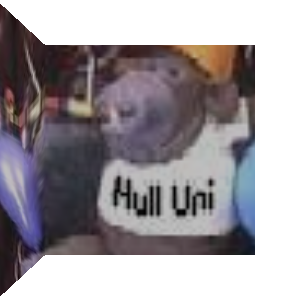
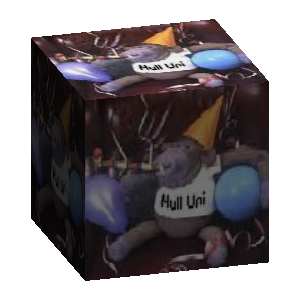
Reshape Ex 13 to map the monkey onto a proper textured 3D box
The original Ex13.java mapped the texture onto an irregular, half-finished fold
of five mismatched quads rather than a clean shape. A texture-mapping exercise is
meant to wrap a recognisable solid, so this maps the monkey onto a rotating
rectangular box (full texture per face, outward normals, slight tilt so the top
face shows). Deliberate departure from a literal port; noted in the class docs.

diff --git a/src/OpenGLExercises/Exercises/Ex13Monkey.cs b/src/OpenGLExercises/Exercises/Ex13Monkey.cs
@@ -4,15 +4,24 @@ using OpenTK.Graphics.OpenGL;
 namespace OpenGLExercises.Exercises;
 
 /// <summary>
-/// Ex 13 — texture mapping: a folded fan of quads carrying the "monkey" texture,
-/// lit and rotating about Y on a white background. Port of <c>Ex13.java</c>
-/// (whose <c>PngTextureLoader</c> is replaced by <see cref="Texture"/>).
+/// Ex 13 — texture mapping: the "monkey" texture wrapped over a lit, rotating 3D
+/// box on a white background (the <c>PngTextureLoader</c> is replaced by
+/// <see cref="Texture"/>).
 /// </summary>
+/// <remarks>
+/// The original <c>Ex13.java</c> mapped the texture onto an irregular, half-built
+/// fold of five quads (a front square plus mismatched bevel flaps) rather than a
+/// clean shape. This port instead maps it onto a proper rectangular box — the
+/// intent of a texture-mapping exercise — so the texture reads correctly on every
+/// face as it spins. This is a deliberate departure from a literal port.
+/// </remarks>
 public sealed class Ex13Monkey : ExerciseWindow
 {
+    private const float H = 0.32f; // half-extent of the box (fits the [-0.5,0.5] ortho view when spun)
+
     private int _texture;
 
-    public Ex13Monkey() : base("Ex 13 - texture mapping (monkey)") { AngleStep = 2f; }
+    public Ex13Monkey() : base("Ex 13 - texture mapping (monkey)") { AngleStep = 1.5f; }
 
     protected override void InitGL()
     {
@@ -42,54 +51,36 @@ public sealed class Ex13Monkey : ExerciseWindow
         GL.Clear(ClearBufferMask.ColorBufferBit | ClearBufferMask.DepthBufferBit);
 
         GL.PushMatrix();
-        GL.Rotate(Angle, 0f, 1f, 0f);
+        GL.Rotate(20f, 1f, 0f, 0f);   // fixed tilt so the top face is visible -> reads as 3D
+        GL.Rotate(Angle, 0f, 1f, 0f); // animated spin
+
         GL.BindTexture(TextureTarget.Texture2D, _texture);
         GL.Enable(EnableCap.Texture2D);
 
-        GL.Begin(PrimitiveType.Quads);
-        GL.Normal3(0f, 0f, 1f);
-        Tex(0.25f, 0.25f); GL.Vertex3(-0.35f, -0.35f, 0.0f);
-        Tex(0.25f, 0.75f); GL.Vertex3(-0.35f, 0.35f, 0.0f);
-        Tex(0.75f, 0.75f); GL.Vertex3(0.35f, 0.35f, 0.0f);
-        Tex(0.75f, 0.25f); GL.Vertex3(0.35f, -0.35f, 0.0f);
-        GL.End();
-
-        GL.Begin(PrimitiveType.Quads);
-        GL.Normal3(0f, 0f, 1f);
-        Tex(0.0f, 0.0f); GL.Vertex3(-0.5f, -0.5f, -0.35f);
-        Tex(0.0f, 1f); GL.Vertex3(-0.5f, 0.5f, -0.35f);
-        Tex(0.25f, 0.75f); GL.Vertex3(-0.35f, 0.35f, 0.0f);
-        Tex(0.25f, 0.25f); GL.Vertex3(-0.35f, -0.35f, 0.0f);
-        GL.End();
-
-        GL.Begin(PrimitiveType.Quads);
-        GL.Normal3(1f, 1f, 1f);
-        Tex(0.75f, 0.25f); GL.Vertex3(0.35f, -0.35f, 0.0f);
-        Tex(0.75f, 0.75f); GL.Vertex3(0.35f, 0.35f, 0.0f);
-        Tex(1.0f, 1.0f); GL.Vertex3(0.35f, 0.35f, -0.35f);
-        Tex(1.0f, 0.0f); GL.Vertex3(0.35f, -0.35f, -0.35f);
-        GL.End();
-
-        GL.Begin(PrimitiveType.Quads);
-        GL.Normal3(1f, 1f, 1f);
-        Tex(0.0f, 0.0f); GL.Vertex3(-0.35f, -0.35f, -0.35f);
-        Tex(0.25f, 0.25f); GL.Vertex3(-0.35f, -0.35f, 0.0f);
-        Tex(0.75f, 0.25f); GL.Vertex3(0.35f, -0.35f, 0.0f);
-        Tex(1.0f, 0.0f); GL.Vertex3(0.35f, -0.35f, -0.35f);
-        GL.End();
-
-        GL.Begin(PrimitiveType.Quads);
-        GL.Normal3(0f, 0f, 1f);
-        Tex(0.0f, 0.0f); GL.Vertex3(-0.5f, -0.5f, -0.5f);
-        Tex(1.0f, 0.0f); GL.Vertex3(-0.5f, 0.5f, -0.5f);
-        Tex(0.25f, 0.75f); GL.Vertex3(-0.5f, 0.5f, 0.0f);
-        Tex(0.25f, 0.25f); GL.Vertex3(-0.5f, -0.5f, 0.0f);
-        GL.End();
+        // Each face carries the full texture (0,0)->(1,1), wound counter-clockwise
+        // when seen from outside, with an outward normal for the lighting.
+        Face(0, 0, 1, (-H, -H, H), (H, -H, H), (H, H, H), (-H, H, H));   // front  (+Z)
+        Face(0, 0, -1, (H, -H, -H), (-H, -H, -H), (-H, H, -H), (H, H, -H)); // back   (-Z)
+        Face(1, 0, 0, (H, -H, H), (H, -H, -H), (H, H, -H), (H, H, H));   // right  (+X)
+        Face(-1, 0, 0, (-H, -H, -H), (-H, -H, H), (-H, H, H), (-H, H, -H)); // left   (-X)
+        Face(0, 1, 0, (-H, H, H), (H, H, H), (H, H, -H), (-H, H, -H));   // top    (+Y)
+        Face(0, -1, 0, (-H, -H, -H), (H, -H, -H), (H, -H, H), (-H, -H, H)); // bottom (-Y)
 
         GL.Disable(EnableCap.Texture2D);
         GL.PopMatrix();
         Rotate();
     }
 
-    private static void Tex(float s, float t) => GL.TexCoord2(s, t);
+    private static void Face(float nx, float ny, float nz,
+        (float x, float y, float z) a, (float x, float y, float z) b,
+        (float x, float y, float z) c, (float x, float y, float z) d)
+    {
+        GL.Begin(PrimitiveType.Quads);
+        GL.Normal3(nx, ny, nz);
+        GL.TexCoord2(0f, 0f); GL.Vertex3(a.x, a.y, a.z);
+        GL.TexCoord2(1f, 0f); GL.Vertex3(b.x, b.y, b.z);
+        GL.TexCoord2(1f, 1f); GL.Vertex3(c.x, c.y, c.z);
+        GL.TexCoord2(0f, 1f); GL.Vertex3(d.x, d.y, d.z);
+        GL.End();
+    }
 }
